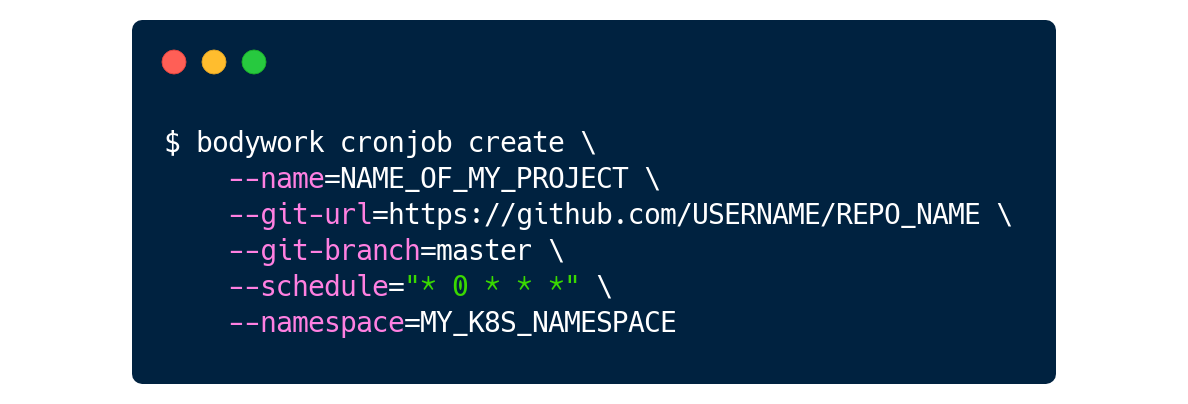
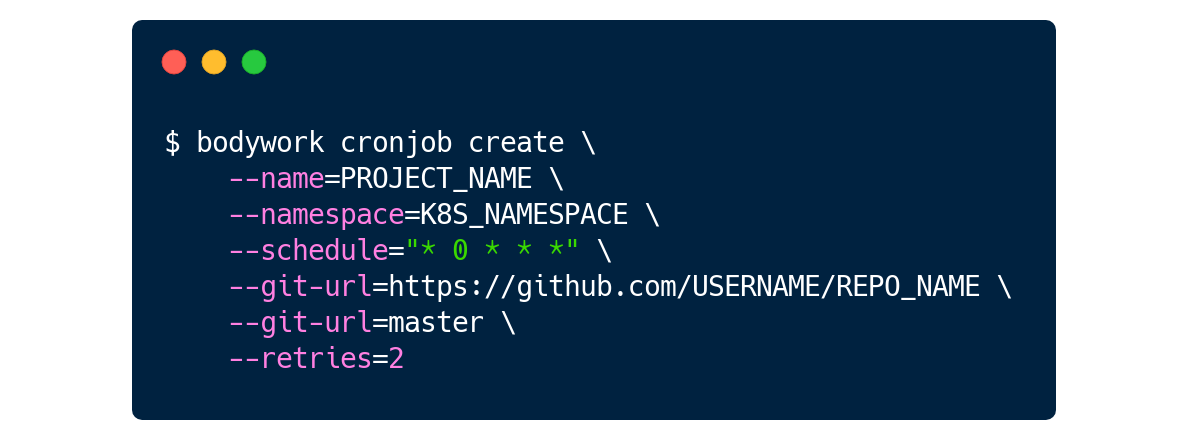
Add retries to all mention of schedules.

diff --git a/docs/user_guide.md b/docs/user_guide.md
@@ -333,8 +333,9 @@ $ bodywork cronjob create \
     --namespace=my-classification-product \
     --name=my-classification-product \
     --schedule="0,15,30,45 * * * *" \
-    --git-repo-url=https://github.com/my-github-username/my-classification-product
-    --git-repo-branch=master
+    --git-repo-url=https://github.com/my-github-username/my-classification-product \
+    --git-repo-branch=master \
+    --retries=2
 ```
 
 Would schedule our example project to run every 15 minutes. The cronjob's execution history can be retrieved from the cluster using,

diff --git a/docs/quickstart_ml_pipeline.md b/docs/quickstart_ml_pipeline.md
@@ -283,7 +283,8 @@ $ bodywork cronjob create \
     --name=ml-pipeline \
     --schedule="* 0 * * *" \
     --git-repo-url=https://github.com/bodywork-ml/bodywork-ml-pipeline-project \
-    --git-repo-branch=master
+    --git-repo-branch=master \
+    --retries=2
 ```
 
 Each scheduled workflow will attempt to re-run the workflow, end-to-end, as defined by the state of this repository's `master` branch at the time of execution - performing rolling-updates to service-deployments and automatic roll-backs in the event of failure.

diff --git a/docs/cli_reference.md b/docs/cli_reference.md
@@ -124,7 +124,8 @@ $ bodywork cronjob create \
     --name=CRONJOB_NAME \
     --schedule=CRON_SCHEDULE \
     --git-repo-url=REMOTE_GIT_REPO_URL \
-    --git-repo-branch=REMOTE_GIT_REPO_BRANCH
+    --git-repo-branch=REMOTE_GIT_REPO_BRANCH \
+    --retries=NUMBER_OF_TIMES_TO_RETRY_ON_FAILURE
 ```
 
 Will create a cronjob whose schedule must be a valid [cron expression](https://en.wikipedia.org/wiki/Cron#CRON_expression) - e.g. `0 * * * *` will run the workflow every hour.

diff --git a/docs/quickstart_batch_job.md b/docs/quickstart_batch_job.md
@@ -166,7 +166,8 @@ $ bodywork cronjob create \
     --name=score-data \
     --schedule="0 * * * *" \
     --git-repo-url=https://github.com/bodywork-ml/bodywork-batch-job-project \
-    --git-repo-branch=master
+    --git-repo-branch=master \
+    --retries=2
 ```
 
 Each scheduled workflow will attempt to re-run the batch-job, as defined by the state of this repository's `master` branch at the time of execution.
